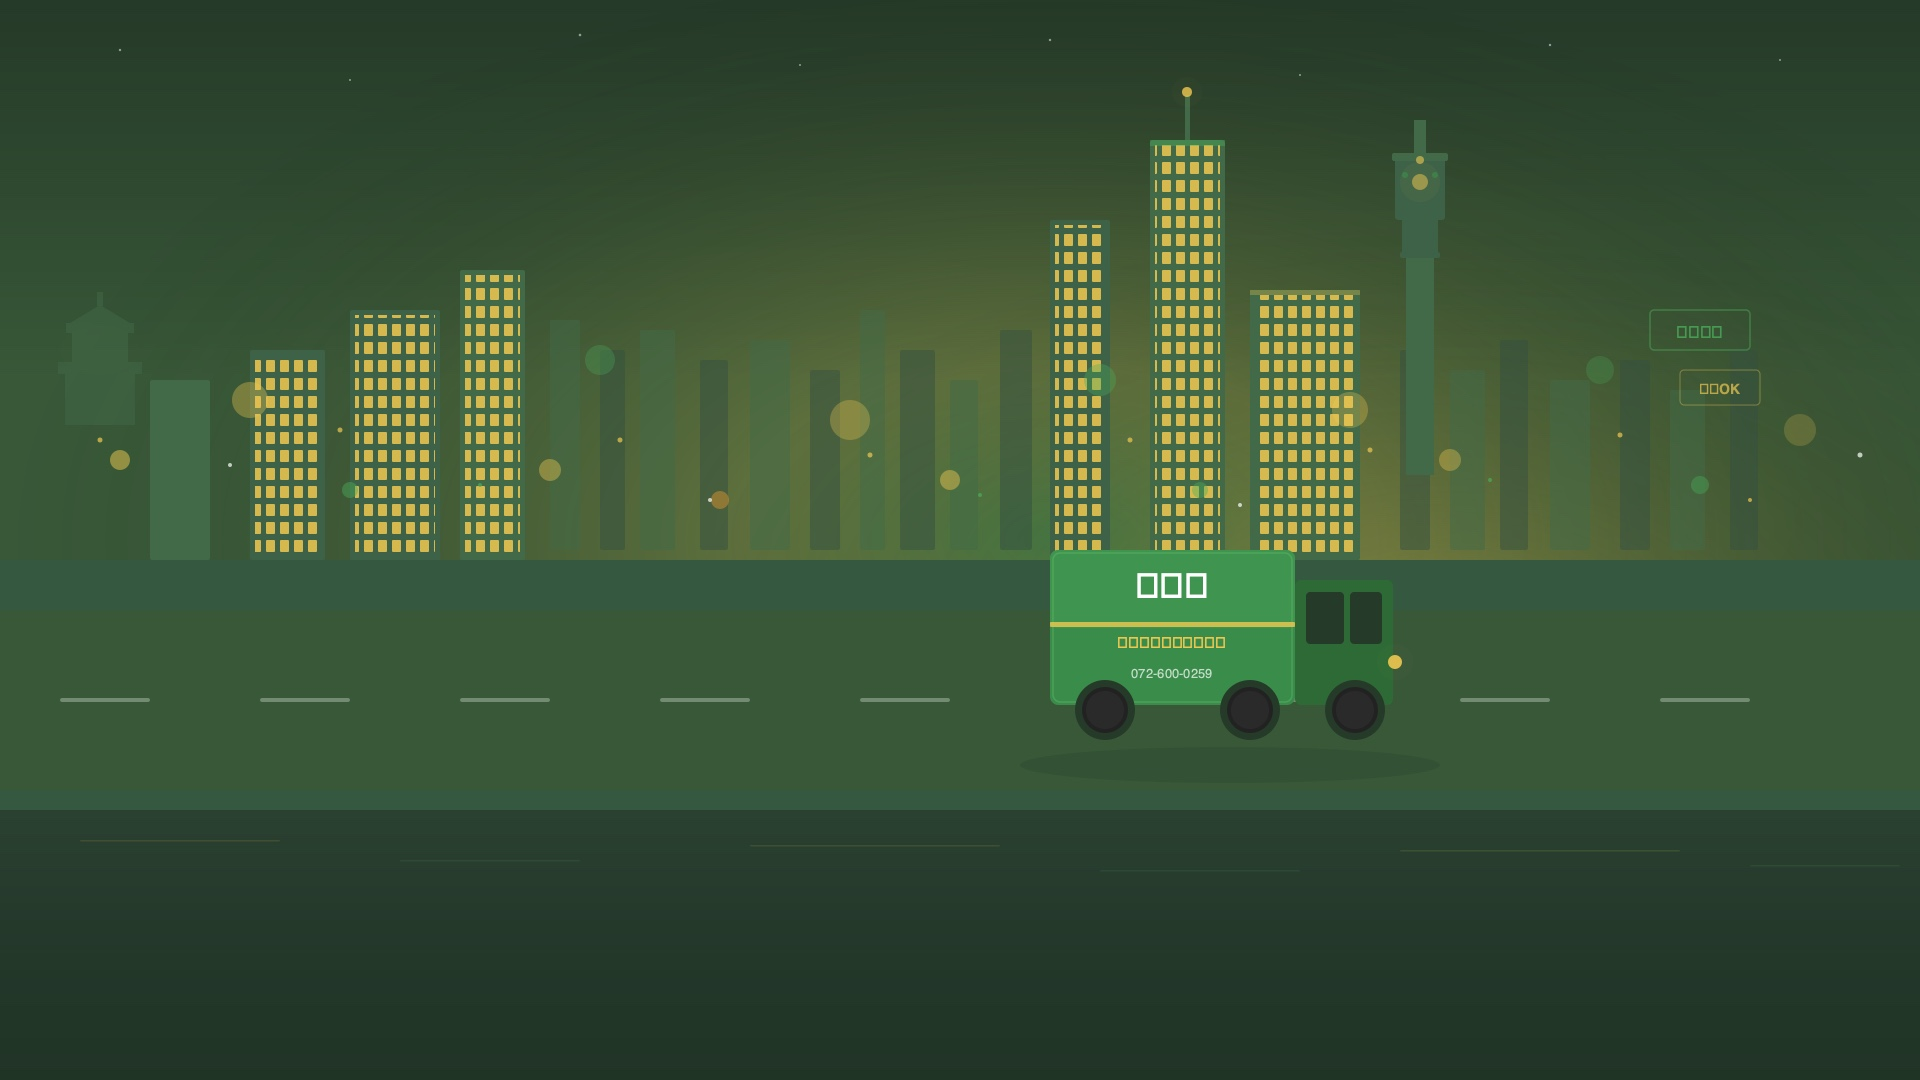
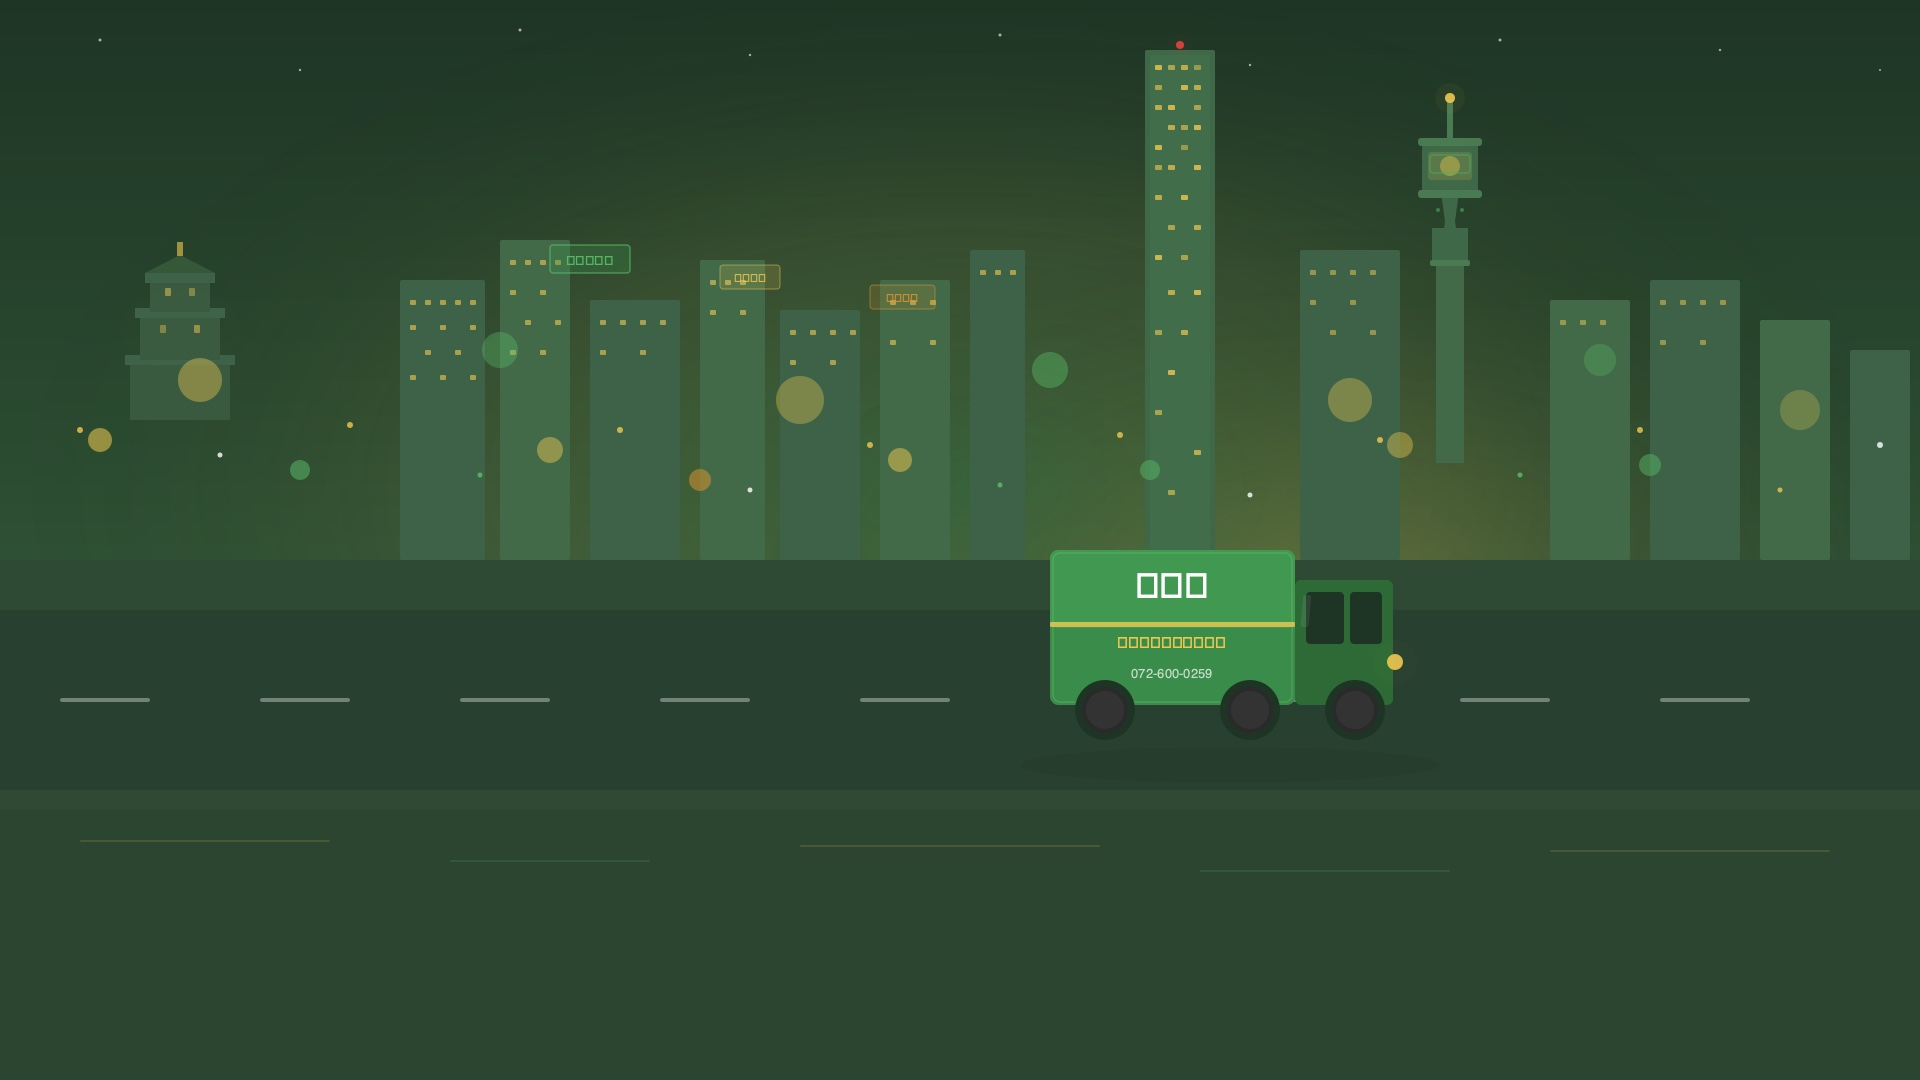
feat: ヒーロー背景を大阪リアル版に全面再作成 + トラック走行アニメ
- 大阪城・通天閣・あべのハルカスをリアルに描写
- 道頓堀風ネオンサイン（不用品回収・高価買取・即日対応）
- 全体を大幅に明るく、窓の光を多数配置
- エコ富トラックが画面を横切る走行アニメーション追加
- CSSオーバーレイもさらに軽減

diff --git a/不用品LP/assets/css/main.css b/不用品LP/assets/css/main.css
@@ -44,3 +44,8 @@
 @keyframes bounce-in{0%{transform:scale(0.8);opacity:0}50%{transform:scale(1.05)}100%{transform:scale(1);opacity:1}}
 .badge-luxury{animation:bounce-in 0.6s ease-out,badge-pulse 2s ease-in-out 0.6s infinite}
 @media(prefers-reduced-motion:reduce){.hero-number{animation:none}.osaka-banner-inner{animation:none}.badge-luxury{animation:none}}
+
+/* ═══ TRUCK ANIMATION ═══ */
+@keyframes truck-drive{0%{transform:translateX(120%)}100%{transform:translateX(-120%)}}
+.truck-anim{position:absolute;bottom:12%;right:0;left:0;height:200px;overflow:hidden;pointer-events:none;z-index:1}
+.truck-anim-inner{animation:truck-drive 18s linear infinite;position:absolute;bottom:0}

diff --git a/不用品LP-astro/public/assets/css/main.css b/不用品LP-astro/public/assets/css/main.css
@@ -80,3 +80,8 @@
 .badge-luxury{animation:bounce-in 0.6s ease-out,badge-pulse 2s ease-in-out 0.6s infinite}
 
 @media(prefers-reduced-motion:reduce){.hero-number{animation:none}.osaka-banner-inner{animation:none}.badge-luxury{animation:none}}
+
+/* ═══ TRUCK ANIMATION ═══ */
+@keyframes truck-drive{0%{transform:translateX(120%)}100%{transform:translateX(-120%)}}
+.truck-anim{position:absolute;bottom:12%;right:0;left:0;height:200px;overflow:hidden;pointer-events:none;z-index:1}
+.truck-anim-inner{animation:truck-drive 18s linear infinite;position:absolute;bottom:0}
